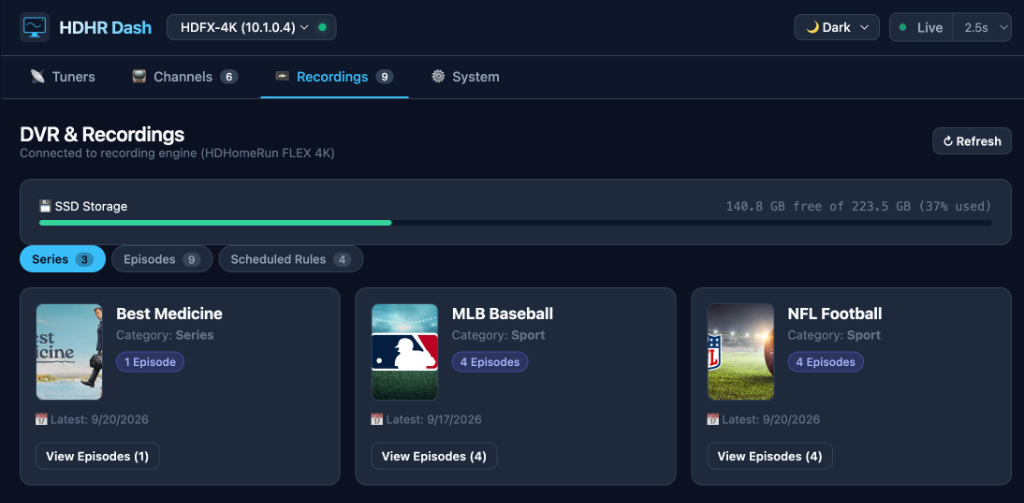
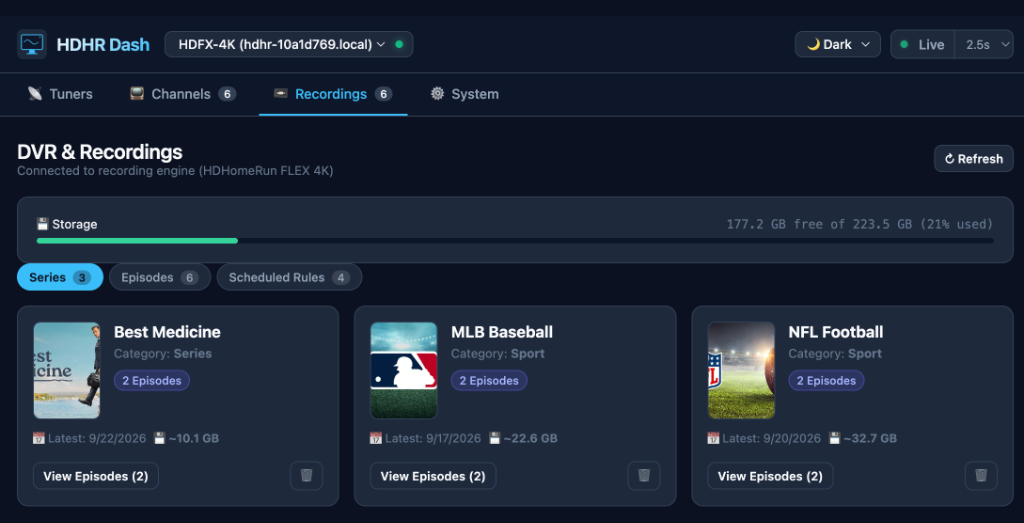
Update README with refreshed screenshots, end-user guide, and key features

diff --git a/README.md b/README.md
@@ -3,121 +3,206 @@
 [![GitHub Pages](https://img.shields.io/badge/Hosted%20On-GitHub%20Pages-blue?logo=github)](https://jay0lee.github.io/hdhr-dash/)
 [![PWA Ready](https://img.shields.io/badge/PWA-Installable-success?logo=pwa)](https://jay0lee.github.io/hdhr-dash/)
 [![License: Apache 2.0](https://img.shields.io/badge/License-Apache%202.0-blue.svg)](LICENSE)
+[![Version: v2.0.64](https://img.shields.io/badge/Version-v2.0.64-brightgreen.svg)](https://github.com/jay0lee/hdhr-dash/releases)
 
-A modern, fast, and responsive **Progressive Web App (PWA)** to monitor and interact with [SiliconDust HDHomeRun](https://www.silicondust.com/) tuners and DVR recording engines on your local network.
+A modern, fast, and responsive web dashboard and **Progressive Web App (PWA)** for [SiliconDust HDHomeRun](https://www.silicondust.com/) network tuners and DVR recording engines. 
 
-👉 **Live App:** [https://jay0lee.github.io/hdhr-dash/](https://jay0lee.github.io/hdhr-dash/)
+Zero setup, zero cloud accounts, and zero tracking — HDHR Dash connects directly to your HDHomeRun across your home network to give you live tuner gauges, channel streaming links, DVR library management, and hardware diagnostics.
+
+👉 **Launch Live App:** [https://jay0lee.github.io/hdhr-dash/](https://jay0lee.github.io/hdhr-dash/)
 
 ---
 
-## Screenshots
+## 🚀 Quick Start (Need-to-Know for New Users)
+
+You do not need to install servers, sign up for an account, or configure background services. HDHR Dash runs 100% in your browser.
+
+1. **Open the App:**  
+   Navigate to [jay0lee.github.io/hdhr-dash](https://jay0lee.github.io/hdhr-dash/) on any computer, tablet, or phone connected to your home Wi-Fi or LAN.
+2. **Allow Local Network Access:**  
+   When prompted by your browser (e.g. Chrome, Edge, or Brave), click **Allow** to let the dashboard communicate with your HDHomeRun tuner on your local network. *(See [How Local Network Access Works](#-how-local-network-access-works) below).*
+3. **Connect Your Tuner:**  
+   HDHR Dash will automatically detect your HDHomeRun device via mDNS / UDP discovery. If auto-discovery is blocked by your browser or network, go to the **System** tab, enter your tuner's local IP (e.g., `192.168.1.100`) or mDNS hostname (e.g., `hdhr-10a1d769.local`), and click **Add / Switch**.
+4. **(Optional) Install as an App:**  
+   Install HDHR Dash to your desktop or home screen for a standalone, full-screen app experience. *(See [Installing as a PWA](#-installing-as-a-progressive-web-app-pwa) below).*
+
+---
+
+## 📸 App Tour & Features
 
 ### 📡 Tuner Activity & Status
-Monitor physical tuners in real time with live polling, client IP resolution, network bitrate, signal gauges (Signal Strength, SNR Quality, Symbol Quality), and tuner sharing detection when multiple clients or DVR recordings share a tuner.
+
+Monitor physical tuners in real time with live polling, client IP resolution, network streaming bitrate, and signal gauges.
 
 ![Tuner Activity & Status](screenshots/tuners.png)
 
+* **Live Tuner Cards:** View active stream status (`STREAMING` vs `IDLE`), current channel callsign, network logo, virtual channel number, and broadcast market location.
+* **UHF / VHF & Frequency Details:** Clearly displays the broadcast band pill (**UHF** or **VHF**), broadcast frequency in MHz, and underlying physical **RF Channel** number.
+* **Client IP & Bitrate:** See the exact client device streaming from each tuner (with IPv4 and IPv6 support) and the live network stream bitrate (e.g., `1.66 Mbps`).
+* **Signal Quality Meters:** Real-time color-coded progress bars for **Signal Strength**, **SNR Quality**, and **Symbol Quality** (🟢 Green $\ge 80\%$, 🟡 Orange $\ge 60\%$, 🔴 Red $< 60\%$).
+* **Signal Graphing & Antenna Alignment:** Click **"📈 View Signal Graph →"** on any tuner card to access dedicated real-time signal graphing, historical chart trends, and audio/visual assistance for aiming over-the-air antennas.
+* **Tuner Sharing Detection:** Automatically flags when multiple client apps or background DVR tasks share a single physical tuner on the same broadcast frequency.
+* **Configurable Refresh Rate:** Toggle live polling between `1s`, `2.5s`, `5s`, or `Paused`. Polling automatically sleeps when the tab is hidden to save battery and network bandwidth.
+
 ---
 
-### 📺 Channels
-Browse your entire channel lineup with ATSC 1.0 vs ATSC 3.0 detection, A3SA DRM badges, color-coded signal quality meters, quick filters, one-click stream URL copying, M3U launchers, and full playlist export.
+### 📺 Channels & Live Streaming
+
+Browse your complete scanned channel lineup with broadcast format badges, reception meters, quick search, and one-click media playback.
 
 ![Channels](screenshots/channels.png)
+
+* **Comprehensive Badges:**
+  * **Broadcast Band:** `UHF` vs `VHF` pills to identify which frequencies your antenna needs to receive.
+  * **Broadcast Standard:** `ATSC1` (standard digital broadcast) vs `ATSC3` (NextGen TV 4K/HEVC).
+  * **DRM Protection:** Highlights encrypted ATSC 3.0 channels with `🔒 DRM` (A3SA encryption).
+  * **Favorites & Format:** `⭐ Fav` favorite status, `HD` / `4K` / `SD` resolution tags.
+* **Physical RF Sub-labels:** Virtual channel numbers (e.g. `10.1`, `106.1`) are paired directly with their physical RF channel number (`RF 28`, `RF 33`) so you always know the true transmission frequency.
+* **Instant Search & Advanced Filters:** Search channels instantly by name, callsign, or channel number. Use the **⚡ Filters** dropdown to narrow down by *Favorites*, *Allowed*, *Hidden*, *ATSC 3.0*, *UHF*, *VHF*, *HD*, or *DRM*.
+* **One-Click Playback & Copy:**
+  * 📋 **Copy URL:** Copies the direct HTTP MPEG-TS stream URL directly to your clipboard.
+  * 📺 **M3U:** Instantly launches or downloads a `.m3u` stream file for desktop players like VLC, IINA, or Infuse.
+* **Playlist Export:** Click **📥 Export M3U** to generate a complete `#EXTM3U` playlist with channel names, numbers, and station logos for import into Plex, Channels DVR, Kodi, or IPTV clients.
 
 ---
 
 ### 📼 DVR & Recordings
-View connected storage usage, browse recorded series and episodes with broadcast poster artwork and station logos, inspect scheduled recording rules, and download full `.mpg` video files directly.
+
+Manage your connected HDHomeRun DVR storage engine, browse recorded media, and inspect scheduled series rules.
 
 ![DVR & Recordings](screenshots/recordings.png)
 
+* **Storage Capacity Bar:** Visual disk space gauge displaying free storage, total storage, and percent used on your attached drive (e.g. USB drive on HDHomeRun FLEX 4K or network DVR storage).
+* **Series Library:**
+  * Visual cards featuring high-resolution broadcast poster art and genre tags (`Series`, `Sport`, `Movie`).
+  * Total recorded episode count, latest recording date, and aggregate file size (e.g. `💾 ~22.6 GB`).
+  * Quick-access **View Episodes** button and single-click series deletion 🗑.
+* **Episode Browser:**
+  * Detailed episode list with season/episode numbers (`S01E02`), episode title, broadcast station logo, original air date, synopsis, and file size.
+  * **⬇ Download (.mpg):** Download raw, uncompressed `.mpg` broadcast recording files straight to your local computer.
+  * **Direct Stream:** Watch recorded episodes directly in your browser or external player.
+  * **Delete Episode:** Safely delete completed episodes to reclaim disk space.
+* **Scheduled Recording Rules:**
+  * View active series rules configured in your HDHomeRun Cloud DVR (`api.hdhomerun.com`).
+  * **Clear Priority Rankings:** Displays numeric rule priorities with explicit `(highest)` and `(lowest)` precedence qualifiers so you can see exactly which rule wins during recording schedule conflicts.
+  * View team/channel restrictions and start/end recording padding.
+
 ---
 
-### ⚙ System & Device Management
-View device hardware details, check firmware update status against SiliconDust releases, switch between multiple tuners, and customize the interface with 5 color themes.
+### ⚙ System, Settings & Diagnostics
+
+Centralized hardware management, multi-device switching, theme customization, and privacy-safe diagnostic logging.
 
 ![System & Settings](screenshots/system.png)
 
----
-
-## Features
-
-* **📡 Real-Time Tuner Monitoring:**
-  * Displays physical tuners (`tuner0` – `tuner3`) with live polling (`1s`, `2.5s`, `5s`, or paused).
-  * **Tuner Sharing Detection:** Automatically detects when multiple clients or DVR recording sessions share a single tuner on the same channel, displaying a `Shared (N)` badge and individual client tags (e.g. `192.168.86.193`, `📼 DVR`).
-  * Automatically resolves internal `[::1]` streaming proxies to the actual streaming client's LAN IP.
-  * Live stream bitrate indicator (e.g. `2.87 Mbps`) or broadcast frequency.
-  * Signal strength, SNR quality, and symbol quality gauges with color grading (🟢 Good, 🟡 Fair, 🔴 Poor).
-  * Smart polling lifecycle that automatically pauses when the browser tab is hidden to conserve network and battery.
-
-* **📺 Channels & Streaming:**
-  * Full channel discovery via `?show=found`, displaying all scanned channels (including hidden ones).
-  * **ATSC 3.0 vs ATSC 1.0:** Clear badges identifying NextGen TV (HEVC / AC-4) vs standard digital channels.
-  * **A3SA DRM Badges:** Highlights encrypted ATSC 3.0 channels with `🔒 DRM` indicators.
-  * **Signal Quality Meters:** Color-coded signal bars (🟢 Green $\ge 80\%$, 🟡 Yellow $\ge 60\%$, 🔴 Red $< 60\%$) with detailed hover tooltips (`Quality: 100% | Strength: 75%`).
-  * **Quick Filters:** Filter by *Allowed*, *All*, *Favorites ⭐*, *ATSC3*, *DRM 🔒*, *HD Only*, and *Hidden ❌*.
-  * **Direct Streaming & M3U Export:** One-click clipboard URL copy (`📋 Copy URL`), M3U playlist launcher (`📺 M3U`) for external video players (VLC, IINA, etc.), and complete `#EXTM3U` playlist download for external IPTV players, Plex, Channels DVR, or Kodi.
-
-* **📼 DVR & Storage Engine:**
-  * Automatically detects attached storage (e.g., connected USB drive on HDHomeRun FLEX 4K or network recording engines).
-  * Visual storage space bar (`Free GB` vs `Total GB` and % used).
-  * **Series & Episodes Views:** Browse grouped series cards or drill down into individual episodes with season/episode numbers, original airdates, broadcast poster artwork, synopses, and station details.
-  * **Direct Video Downloads:** Direct `⬇ Download (.mpg)` button for every recorded file to save full raw video files directly to your device.
-  * **Recording Deletion & Management:** Delete individual recorded files or entire series directly from connected storage via HDHomeRun DVR API `CmdURL` POST commands, with confirmation prompts and a "Don't ask again" option.
-  * **Scheduled Rules:** Integrates with SiliconDust's Cloud DVR API (`api.hdhomerun.com/api/recording_rules`) using `DeviceAuth` to show active series recording rules with priority, team/channel filters, and padding.
-
-* **🎨 Theme Customization:**
-  * 5 selectable color themes:
-    * **Dark** (Default slate & sky blue)
-    * **Light** (Clean modern daylight palette)
-    * **OLED Black** (True pitch-black background with vibrant accents)
-    * **Teal** (HDHomeRun classic brand aesthetic)
-    * **Nord Frost** (Arctic blue & cool gray palette)
-  * Theme preference persists automatically across sessions.
-
-* **⚙ Multi-Device & Firmware Management:**
-  * Displays model number, Device ID, firmware version, tuner count, IP address, and storage URL.
-  * **Firmware Update Check:** Natively checks for firmware updates, showing `✓ Up to date` or `Update Available` with direct links to the device web admin and SiliconDust firmware changelog.
-  * Multi-device support: Save multiple HDHomeRun units and switch between them instantly.
-  * Clean, stacked vertical cards preventing text and URL overflow on all screen sizes.
-
-* **📱 Progressive Web App (PWA):**
-  * Fully installable on macOS, Windows, iOS, and Android.
-  * Complete icon and favicon suite (`favicon.ico`, `apple-touch-icon.png`, `icon-192.png`, `icon-512.png`).
-  * Zero external framework dependencies — pure Vanilla JavaScript, CSS3, and HTML5.
-  * Works offline with service worker caching for the app shell.
+* **Hardware Overview:** View model number (`HDFX-4K`), Device ID, firmware version, tuner count, channel totals, mDNS hostname, active streaming clients, active recording tasks, and connected storage.
+* **Firmware Update Checker:** Automatically compares your tuner's firmware against the latest SiliconDust release, displaying `✓ Up to date` or `Update Available` with direct links to the device web admin and official changelogs.
+* **Multi-Device Support:** Save multiple HDHomeRun tuners on your network. Switch between units with a single click or run discovery anytime.
+* **Theme Customization:** Choose from 5 themes designed for all environments:
+  * 🌙 **Dark (Default):** Clean modern slate and cyan palette.
+  * ☀ **Light:** High-contrast daylight interface.
+  * 🖤 **OLED Black:** Pitch-black background optimized for OLED displays and low power draw.
+  * 🌊 **Teal:** Classic SiliconDust brand aesthetic.
+  * ❄ **Nord Frost:** Cool arctic blues and muted slate.
+* **Preferences & Safety:**
+  * **Confirm Recording Deletions:** Toggle confirmation dialogs when deleting episodes or series to prevent accidental file loss.
+* **Privacy-Safe Diagnostic Export:**
+  * One-click **Gather Diagnostic Logs** captures raw JSON feeds from your tuner (discovery, status, lineup, storage, and rules).
+  * Automatically **redacts serial numbers, device auth tokens, and anonymizes local IP addresses** so you can safely paste diagnostic logs to forums, Reddit, or SiliconDust support.
 
 ---
 
-## How It Works (LAN Access from HTTPS)
+## 💡 Need-to-Know Information for New Users
 
-Modern browsers restrict HTTPS public websites (like GitHub Pages) from making requests to private LAN IP addresses (`10.x.x.x` or `192.168.x.x`). 
+### 1. UHF vs. VHF & Physical RF Channels
+Broadcast television channels use two numbers:
+- **Virtual Channel Number (e.g., 6.1, 10.1):** The branded channel number you see on your TV guide.
+- **Physical RF Channel Number (e.g., RF 13, RF 28):** The actual radio frequency band transmitting the signal over the air:
+  - **VHF (Channels 2–13):** Longer wavelengths that require wider antenna elements. Signals can be prone to household electrical interference.
+  - **UHF (Channels 14–36):** Shorter wavelengths that penetrate buildings better and use smaller, directional antenna elements.
 
-HDHR Dash works seamlessly thanks to:
-1. **Built-in CORS Support:** SiliconDust HDHomeRun firmware serves `Access-Control-Allow-Origin: *` on its JSON endpoints.
-2. **Local Network Access (LNA):** When you first load the dashboard, Chrome displays a permission prompt asking:  
-   * *"Allow this site to access devices on your local network?"*  
-   Approving this prompt allows the web app to query your HDHomeRun over HTTP without mixed-content blocking.
+HDHR Dash displays both numbers and a **UHF** / **VHF** pill for every channel. If you are experiencing weak reception on specific channels, checking the RF channel and band helps you determine whether your antenna has adequate VHF or UHF reception elements.
 
 ---
 
-## Running Locally
+### 2. ATSC 1.0 vs. ATSC 3.0 (NextGen TV) & DRM
+- **ATSC 1.0:** Standard digital television broadcast. HDHR Dash allows copying stream URLs, opening in VLC/IINA, and downloading recordings without restrictions.
+- **ATSC 3.0 (NextGen TV):** Modern broadcast standard supporting 4K HDR, HEVC video, and AC-4 audio.
+- **`🔒 DRM` (A3SA Encryption):** Certain broadcasters encrypt their ATSC 3.0 broadcasts with A3SA DRM. 
+  > [!IMPORTANT]
+  > DRM-encrypted channels cannot be decoded in third-party video players (VLC, web browsers, Plex). To watch channels marked with `🔒 DRM`, you must use the official SiliconDust HDHomeRun app on a supported platform (Android TV, Apple TV, Fire TV, Windows). Unencrypted ATSC 3.0 channels and all ATSC 1.0 channels stream freely anywhere.
 
-If you prefer to run HDHR Dash locally instead of using GitHub Pages:
+---
+
+### 3. Playing Streams in VLC or External Media Players
+You can watch live TV from any channel on the **Channels** tab:
+- **Copy Stream URL:** Click **Copy URL** on any channel row and paste it into VLC (**Media > Open Network Stream**), IINA, or Infuse.
+- **M3U Launcher:** Click the **M3U** button to download a `.m3u` file configured for that channel. Opening the file will automatically start the stream in your default desktop video player.
+- **Full Playlist Export:** Click **Export M3U** in the header to download a complete playlist of all non-hidden channels for IPTV apps or home media servers.
+
+---
+
+### 4. DVR Requirements
+The **DVR & Recordings** tab automatically activates if your HDHomeRun has an attached recording engine:
+- **HDHomeRun FLEX 4K:** Connect any compatible USB hard drive or flash drive to the USB port on the back of the tuner. The FLEX will automatically format and activate storage.
+- **HDHomeRun DVR Service:** If you run the HDHomeRun DVR engine on a NAS, PC, or Raspberry Pi on your network, HDHR Dash will automatically detect the network storage engine.
+- If no recording storage is attached, the DVR tab will inform you that storage is not detected, while tuner monitoring and live channel features remain fully functional.
+
+---
+
+## 🔒 Privacy & Security
+
+* **100% Client-Side:** HDHR Dash contains no analytics, tracking scripts, or telemetry.
+* **Direct LAN Communication:** All network requests travel directly between your web browser and your HDHomeRun tuner across your local home network. No video streams or tuner data pass through external servers.
+* **No Accounts or Logins:** No registration, cookies, or subscriptions required.
+* **Safe Diagnostic Sharing:** The built-in log collector includes an automatic redaction toggle to scrub private serial numbers, cloud auth tokens, and IP addresses before sharing logs online.
+
+---
+
+## 🌐 How Local Network Access Works
+
+Modern web browsers enforce strict security controls when secure HTTPS sites communicate with private local network IP addresses (`192.168.x.x` or `10.x.x.x`).
+
+HDHR Dash works seamlessly out of the box because:
+1. **HDHomeRun CORS Support:** SiliconDust HDHomeRun firmware serves `Access-Control-Allow-Origin: *` headers on its JSON endpoints.
+2. **Local Network Access (LNA) Permission:** When you first load the dashboard on Chrome or Chromium-based browsers, a browser permission banner appears:  
+   > *"Allow this site to access devices on your local network?"*  
+   Clicking **Allow** authorizes the browser to query your HDHomeRun tuner without security blocks.
+
+---
+
+## 📱 Installing as a Progressive Web App (PWA)
+
+HDHR Dash is a certified PWA and can be installed as a standalone desktop or mobile application:
+
+- **Google Chrome / Microsoft Edge (macOS, Windows, Linux):**  
+  Click the **Install** icon in the address bar (or menu `⋮` > **Save and Share** > **Install HDHR Dash**).
+- **Safari (iPhone & iPad):**  
+  Tap the **Share** button in Safari > tap **Add to Home Screen**.
+- **Android (Chrome):**  
+  Tap the menu (`⋮`) > tap **Add to Home screen** or **Install app**.
+
+Once installed, HDHR Dash opens in its own window without browser toolbars, runs with service-worker offline caching for the app shell, and persists your preferences across reboots.
+
+---
+
+## 💻 Running Locally (Self-Hosting)
+
+If you prefer to host HDHR Dash yourself on a home server or run it completely disconnected from GitHub Pages:
 
 ```bash
 # Clone the repository
 git clone https://github.com/jay0lee/hdhr-dash.git
 cd hdhr-dash
 
-# Serve using any static file server
+# Serve using any lightweight static web server
 python3 -m http.server 8080
 ```
 
-Open `http://localhost:8080` in your browser.
+Then open `http://localhost:8080` in your web browser.
 
 ---
 
-## License
+## 📄 License
 
-Apache License 2.0. See [LICENSE](LICENSE) for details.
+Distributed under the Apache License 2.0. See [LICENSE](LICENSE) for more details.
